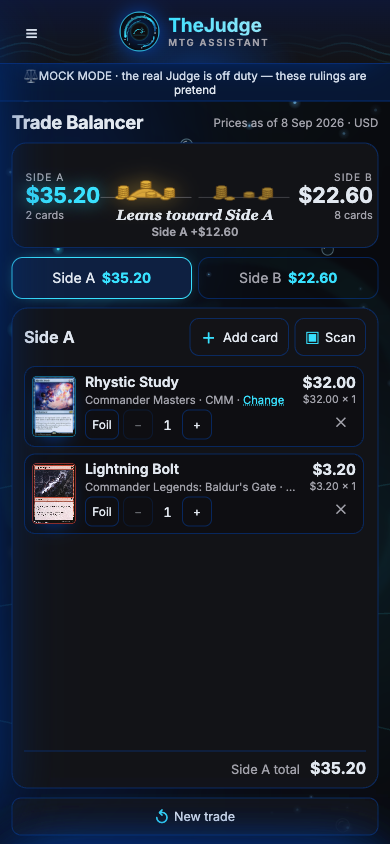
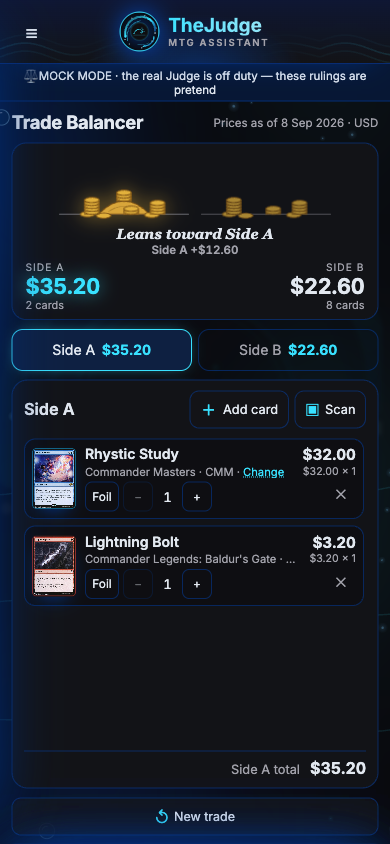
design(ui-reimagining): round 7 Menu renders, README round-7 log, Round 8 feedback template, index card for the scan page, r6 renders removed

diff --git a/docs/design/ui-reimagining/index.html b/docs/design/ui-reimagining/index.html
@@ -53,7 +53,7 @@
 
       <section class="card-panel gallery-card">
         <h2>Motif gallery</h2>
-        <p class="viewport-note">Round 6: your White and Blue picks, and four fresh candidates each for Black (skull and bones), Red (flames), Green (the sprouting seed) and Colorless (a circle with a swirl) — pick one letter per colour.</p>
+        <p class="viewport-note">The six final symbols (round 7): White C, Blue C, Black A, Red A, Green A (redrawn — no dot, a curling stem), Colorless C — each in its badge and in the round-7 theme circle.</p>
         <a class="btn primary tap-target" href="direction-1/motif-gallery.html">Open gallery</a>
       </section>
 
@@ -73,6 +73,12 @@
         <h2>Trade Balancer</h2>
         <p class="viewport-note">Phone tabs below 768px; desktop side-by-side at and above 768px. Viewable at 390×844 and 1440×900.</p>
         <a class="btn primary tap-target" href="direction-1/trade-balancer.html">Open mockup</a>
+      </section>
+
+      <section class="card-panel gallery-card">
+        <h2>Card scan</h2>
+        <p class="viewport-note">Round 7: the scanner in the shared chrome — guide, locking indicator, review bubble, thumbs-up, capture, exit. The feed is a still. Viewable at 390×844 and 1440×900.</p>
+        <a class="btn primary tap-target" href="direction-1/card-scan.html?back=quick-question.html&into=your%20question">Open mockup</a>
       </section>
 
       <section class="card-panel gallery-card">

diff --git a/docs/design/ui-reimagining/direction-1/shared-chrome-menu.html b/docs/design/ui-reimagining/direction-1/shared-chrome-menu.html
@@ -73,7 +73,7 @@
     const setTray = mountMenu('Ask a Question');
     document.getElementById('open-menu-2').addEventListener('click', () => setTray(true));
 
-    setProfile('blue');
+    // the colour comes from ?profile= (round 7) or the page default, Blue
   </script>
 </body>
 </html>

diff --git a/docs/design/ui-reimagining/README.md b/docs/design/ui-reimagining/README.md
@@ -31,14 +31,16 @@ compositions each page targets.
   each profile are unchanged from `REQ-099`'s shipped values.
 - `motifs.js` — the one source of every colour's symbol (round 6): each
   drawn in a 100×100 box, injected as an SVG sprite, with the letter the
-  pages wear today (`CHOSEN`) and the candidates the gallery shows.
+  pages wear (`CHOSEN` — the owner's final picks as of round 7: White C,
+  Blue C, Black A, Red A, Green A redrawn, Colorless C) and the candidates
+  the gallery keeps for the record.
 - `motifs/` — one original SVG per colour (`REQ-201`), each a badge (round
   4): a dark disc holding the colour's chosen symbol, wrapped in a ring of
   its element — White a sun rising over a horizon in scattering rays, Blue
   a wave crest in a sweeping wave, Black a skull drawn in line among thorns
-  with ink dripping below, Red a flame in a swirl of fire, Green a seed
-  sprouting from the soil in a leaf wreath, Colorless a spiral inside a
-  ring, wrapped in curling tendrils. Each file embeds its symbol's paths
+  with ink dripping below, Red a flame in a swirl of fire, Green a sprout
+  curling up from the soil in a leaf wreath (round 7), Colorless a vortex of
+  broken rings, wrapped in curling tendrils (round 7). Each file embeds its symbol's paths
   from `motifs.js`; when a pick changes, both change. Drawn for this app;
   no official Wizards of the Coast mana glyph, icon font, logo, or card art
   anywhere in this tree.
@@ -50,9 +52,13 @@ compositions each page targets.
   plus the shared menu tray, chat and card-detail panel (round 3).
 - `ambience.css` + `ambience.js` — the per-colour personality layer behind
   every page: two sheets of drifting haze and a field of magical dust
-  (round 5), plus the colour's badge faint and drifting, over a flat ground
-  (round 6). No corner decoration anywhere: the round-3 `ornaments/` and the
-  round-4 hairline brackets are both gone.
+  (round 5), the colour's badge faint and drifting, over a flat ground
+  (round 6), and — round 7 — each colour's **element played as its own
+  animation** on the same canvas (a green canopy shedding leaves, blue
+  bubbles and waves, black fog and wisps, red heat, white beams, colorless
+  shapes). The same renderer plays at a whisper in the Menu's foot. No
+  corner decoration anywhere: the round-3 `ornaments/` and the round-4
+  hairline brackets are both gone.
 - `motif-gallery.html` — the owner's picks and the round-6 candidates per
   colour at orb size and large, for the owner to pick from.
 - `shared-chrome-menu.html` — the Menu, brand mark, Theme section, mock-mode
@@ -61,15 +67,17 @@ compositions each page targets.
 - `quick-question.html` — Quick Question, pre-submit and answered.
 - `in-depth-question.html` — every In-Depth Question step.
 - `trade-balancer.html` — Trade Balancer, phone tabs and desktop side-by-side.
+- `card-scan.html` — round 7: the card scanner (today's `ScanCameraSurface`
+  + `ScanReviewBubble`) in the shared chrome; the camera feed is a still.
+  Every Scan button on the three flows opens it with `?back=` and `?into=`.
 
 ## Previewing all six colours
 
 Every page's `<html>` tag carries `data-profile="blue"` by default (Blue is
-the shipped default, `REQ-099`). To preview another colour, either use the
-Theme section on `shared-chrome-menu.html` (it live-updates the page with no
-reload) or edit the `data-profile` attribute directly in your browser's
-DevTools — valid values are `white`, `blue`, `black`, `red`, `green`,
-`colorless`.
+the shipped default, `REQ-099`). To preview another colour, open any page
+with `?profile=green` (round 7 — any of `white`, `blue`, `black`, `red`,
+`green`, `colorless`), use the Theme row in the Menu (it live-updates the
+page with no reload), or edit the `data-profile` attribute in DevTools.
 
 ## `before/`, `after/` and `renders/`
 
@@ -104,11 +112,156 @@ How to work on it: serve this folder (`python3 -m http.server 8137 --bind
 representative printings via `https://cards.scryfall.io/normal/front/<a>/<b>/<id>.jpg`;
 ids come from `apps/frontend/public/data/cardMetadata.json` (`imageId`).
 
+### Round 7 (2026-09-28, from `OWNER-FEEDBACK.md` → "Round 7")
+
+Every Round 7 note applied. Renders are `renders/r7-*.png` (phone 390×844,
+desktop 1440×900) — the only renders in the folder; Round 6's live in git
+history at commit `9fdb1a0`.
+**Rule** = the owner said it must hold; **Try** = shown for a verdict.
+
+Global, on every page:
+
+- Rule: **the six symbols are final** — White C, Blue C, Black A, Red A,
+  Green A, Colorless C (`motif-gallery.html`, `r7-motif-gallery-1440`).
+  Green A is **redrawn** on the note: the dot above the sprout is gone, the
+  stem bends and curls into a tendril, the two leaves differ in size and
+  height, the soil line sits off-centre — asymmetric, a little mystical,
+  not a diagram. `motifs/green.svg` and `motifs/colorless.svg` carry the
+  new symbols; the brand orb, the judge's seal and the drifting badge follow.
+- Rule: **the theme icons sit in a circle** — a light disc of the colour
+  with the symbol dark on it, a play on the printed mana symbols; the chosen
+  one wears a thin ring of its light (`r7-menu-*`). The gallery shows each
+  candidate in that circle too.
+- Try: **each colour's element plays behind the page** (`r7-global-1440-*`,
+  one per colour), on the same canvas as the dust, all slow and faint:
+  Green a canopy hangs from the top edge — its branches and leaf clusters
+  are the top of the screen — and leaves fall casually to the bottom · Blue
+  bubbles rise through three slow waves, undersea · Black fog banks roll low
+  across the page and a few wisps wander (the ominous vibe, not only the
+  graveyard) · Red a bed of heat along the foot with soft tongues licking up
+  and embers rising — fire without a bonfire · White soft beams from above
+  and slow orbs of light lifting · Colorless abstract geometry — hexagons,
+  rings, ticks, dashed circles — turning slowly, mechanical. Density and
+  alpha are one number each per scene in `ambience.js`.
+- Rule: **the banner design is the colour's own element**, not an abstract
+  pattern: White the rays of a low sun fanning up behind the brand · Blue
+  waves along the band's foot · Black fog pooling at each end · Red the hot
+  band and embers (kept) · Green leaves blown in from each end · Colorless a
+  hexagonal lattice at each end. All cut from the colour's tokens, so a
+  custom Colorless colour carries in.
+- Rule: **the drifting badge behind the page is fainter** so the element
+  reads. The haze, the flat ground and Black's motion hold from round 6.
+
+#### Ask a Question — `quick-question.html` (`r7-qq-*`)
+
+- Rule: the **"your cards come with you" line is gone.**
+- Rule: **"Add in-depth details" lives inside the question box**, at its
+  left end — a pill the height of the round send, one control among the
+  box's own, not a row of its own. On a narrow phone it keeps its glyph and
+  drops the word (`r7-qq-390`). It still carries the attached cards over.
+
+#### Ask a Question · in-depth details — `in-depth-question.html` (`r7-idq-*`)
+
+- Rule: the **combined game plate and the hidden extra details stay**.
+- Rule: **carried cards are placed one at a time** (`r7-idq-1440-3-placing`,
+  `r7-idq-390-3-placing`): the same sheet as the context step — the card is
+  the hero at the left, "Which zone is it in?" beside it, one tile per zone
+  chosen at step 2, "Other zones ▾" for the rest (picking one adds it to the
+  chosen zones). A tap places the card and the next one follows; a counter
+  reads "1 / 5 to place"; "Leave this card out" drops it. The dropdown strip
+  is gone.
+- Rule: **the guardrail** — nothing past the Cards step until every carried
+  card has a zone. The shelf, the search and Continue wait behind the
+  placement sheet; the rail's "Context" station bounces back to Cards and
+  nudges the sheet.
+- Rule: after placing, **a tap on any shelf card opens its actions**
+  (`r7-idq-1440-3-card-actions`): Move to — every zone as a tile, the
+  current one marked — Details, Remove; on the Stack also ↓ Move down ·
+  ↑ Move up · To top. So a placed card can be reassigned, and lists edited,
+  from the zone itself.
+- Rule: **the Stack reorders by drag** — a card lifts and rides the pointer
+  (a mouse drags at once; touch after a short hold), the others show where
+  it will land, and the tags (#1 … TOP) renumber. The actions sheet is the
+  mechanical way. The hint under the shelf says both.
+- Rule: **a target can be picked once.** What is already a pill leaves the
+  picker. Naming every player one by one folds the pills into **All
+  players**; picking All players drops the single-player pills and hides
+  them from the picker (`r7-idq-1440-4-context`).
+- Try: **Copies** — a small number field on Stack cards ("storm, fork…") is
+  the storm callout: the one honest case for "the same thing again". The
+  review reads "+3 copies".
+
+#### Trade Balancer — `trade-balancer.html` (`r7-tb-*`)
+
+- Rule: **two piles of gold replace the scale** (`r7-tb-1440`,
+  `r7-tb-1440-hoard`, `r7-tb-390`). Each side's pile grows through five
+  tiers by the dollar value on that side — under $10 loose coins and a
+  two-coin stack · $10–25 two taller stacks · $25–60 a mound with a stack at
+  its peak · $60–150 a larger mound crowned with a purple gem and taller
+  side stacks · $150+ the hoard: the largest mound topped with a chalice,
+  the tallest outer stacks, coins scattered at the edges. Each tier builds
+  on the last. Thresholds are placeholders in `TIERS`, to tune on real
+  trade data.
+- Rule: **tier-up drops in from above** with a slight overshoot (550 ms),
+  ~90 ms stagger per element so a multi-tier jump cascades; tier-down lifts
+  and fades at once; nothing loops idle.
+- Rule: **the verdict line** (serif, under the piles), by the ratio of the
+  smaller side to the larger: 95%+ "Fair trade" · 85–95% "Slightly favors
+  …" · 60–85% "Leans toward …" · under 60% "Lopsided — … by NN%". The plain
+  dollar difference stays beneath it (rounds 4 and 6). "Even" when equal.
+- Rule: flat fills — gold and amber with a bronze outline, one purple gem.
+- Decided, from the open questions: **absolute tiers with an imbalance cue**
+  — the richer pile glows, the lighter one dims a step, and the verdict
+  names the side (relative tiers would hide how big the trade is). **Live
+  building** — the piles update as each card is added (that is how the
+  mockup already works). **Empty state** — the bare ground line and "Add
+  cards to weigh the trade". The Dragon's Hoard stays a later option.
+- Answer: a card that cannot change printing has **one demo printing** in
+  this mockup (Birds, Path, Helix); it now reads "only printing". The built
+  app offers every printing the price snapshot knows for that card.
+- The demo strip switches between one trade per verdict band.
+
+#### Card scan — `card-scan.html` (`r7-scan-*`)
+
+- Try: the **scanner in the new chrome**, every part of today's screen kept
+  (`ScanCameraSurface`, `ScanReviewBubble`; DEC-052…062): the viewfinder is
+  a lit frame in the colour's edge; the card guide is the colour's light
+  with corner ticks and pulses while locking; the indicator (searching hints
+  · "Locking on Lightning Bolt" with the vote bar · "Good — hold steady" ·
+  "Camera unavailable") is a themed pill; the lock outline on the card is a
+  marching dash of the colour's light; the review bubble is the colour's
+  filled pill and opens the "Added this session" list with Remove; the
+  thumbs-up on each auto-add is the colour's plate; mute, Debug, Capture and
+  Exit scan are all there. "Adding to Stack · ✓ 2 added" sits under the
+  title. Scan buttons on the three flows open it and come back.
+- There is no shipped screenshot of this screen (a camera needs a device);
+  the feed here is a still of a card on a table.
+
+#### Shared chrome and Menu — `shell.css` + `flow.js` (`r7-menu-*`)
+
+- Rule: the theme icons are **circles** (above).
+- Try: **the foot is quieter and on-theme** (`r7-menu-1440`,
+  `r7-menu-1440-green`, `r7-menu-390`): the badge is gone; the colour's own
+  element plays there at a whisper — a few falling leaves, a handful of
+  bubbles and a wave, a wisp in fog, heat, a beam, a turning ring — over a
+  faint pool of the colour's light, fading in from nothing. Not dead space,
+  not a picture.
+
+### Open for the owner's verdict (Round 7)
+
+- Global: the six background animations — the right amount of subtle? any
+  colour whose element misses?
+- In-depth: the Copies callout for storm; the actions sheet as the
+  mechanical reorder.
+- Trade Balancer: absolute tiers + the cue; live building; the empty state.
+- Card scan: the lock outline in the colour's light (today's is a fixed
+  green) — keep, or keep green as the "yes" colour?
+- Menu: the whisper at the foot.
+
 ### Round 6 (2026-09-27, from `OWNER-FEEDBACK.md` → "Round 6")
 
-Every Round 6 note applied. Renders are `renders/r6-*.png` (phone 390×844,
-desktop 1440×900) — the only renders in the folder; Round 5's live in git
-history at commit `4d0066c`.
+Every Round 6 note applied. The Round 6 renders (`r6-*`) were removed on
+2026-09-28; they remain in git history at commit `9fdb1a0`.
 **Rule** = the owner said it must hold; **Try** = shown for a verdict.
 
 Global, on every page:

diff --git a/docs/design/ui-reimagining/OWNER-FEEDBACK.md b/docs/design/ui-reimagining/OWNER-FEEDBACK.md
@@ -574,3 +574,82 @@ Your points:
 ## Ready to build?
 
 -
+
+# Round 8 — notes on the Round 7 renders
+
+Open `README.md` → "Round 7" for what changed and why; the renders are
+`renders/r7-*.png`. Write under each heading; a blank heading means "fine as
+shown". When done, open a new session and paste:
+
+"Continue the ui-reimagining mockup rework. Start from
+`docs/design/ui-reimagining/README.md` (Iteration log, Round 7), then apply
+my Round 8 notes in `docs/design/ui-reimagining/OWNER-FEEDBACK.md`, showing
+me a render after each flow."
+
+Answers to your Round 7 questions:
+
+- Green A is redrawn as you asked — no dot, a curling stem, two unequal
+  leaves. Colorless wears C. Black A and Red A as picked.
+- Every colour now has its own background animation (one render each,
+  `r7-global-1440-*`); the banner design is the same element.
+- The card scanner has its page now, `card-scan.html`, reachable from every
+  Scan button.
+- Cards that cannot change printing in the Trade Balancer demo have one demo
+  printing; the row now says "only printing". The built app lists every
+  printing the price snapshot knows.
+- The gold piles are in, with the three open questions decided (absolute
+  tiers + a glow on the richer pile; live per card; a bare ground line when
+  empty) — say if you want any of them the other way.
+
+## Global (`r7-motif-gallery-1440`, `r7-global-1440-<colour>`)
+
+Tries: the six background animations; the elemental banners; the circled
+theme icons.
+
+Your points:
+
+-
+
+## Ask a Question (`r7-qq-*`)
+
+Your points:
+
+-
+
+## In-depth details (`r7-idq-*`)
+
+Tries: the Copies callout for storm; the actions sheet as the mechanical
+reorder beside drag.
+
+Your points:
+
+-
+
+## Trade Balancer (`r7-tb-*`)
+
+Tries: absolute tiers with the imbalance cue; live building; the empty state.
+
+Your points:
+
+-
+
+## Card scan (`r7-scan-*`)
+
+Tries: the whole screen in the new chrome; the lock outline in the colour's
+light rather than a fixed green.
+
+Your points:
+
+-
+
+## Shared chrome and Menu (`r7-menu-*`)
+
+Tries: the whisper of the element at the foot.
+
+Your points:
+
+-
+
+## Ready to build?
+
+-
